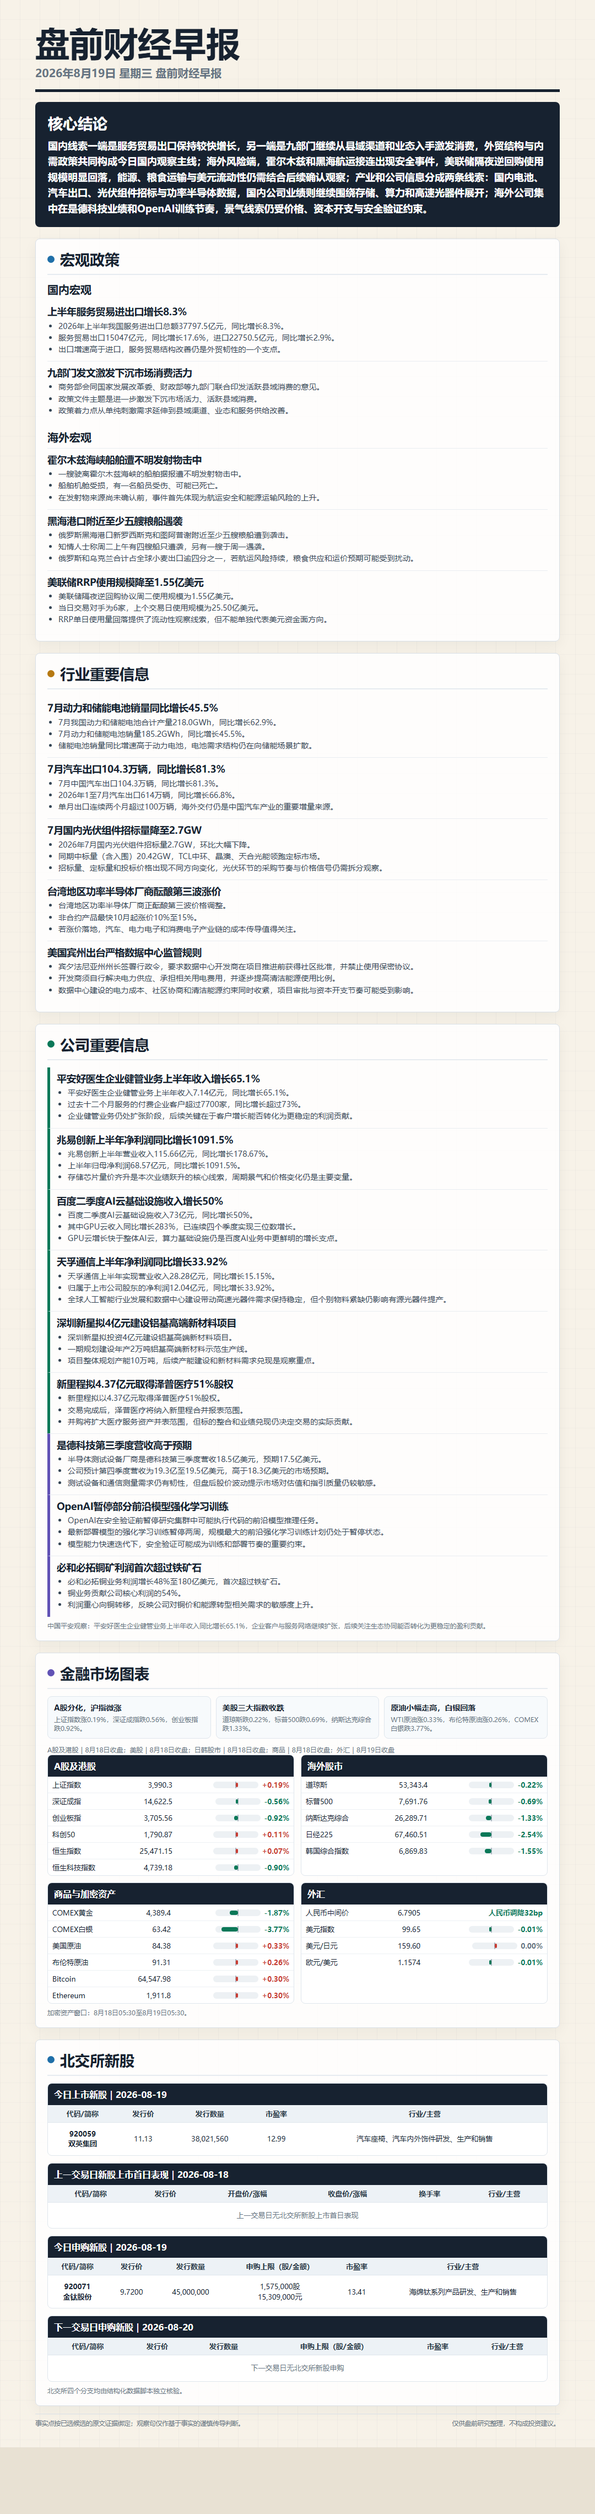
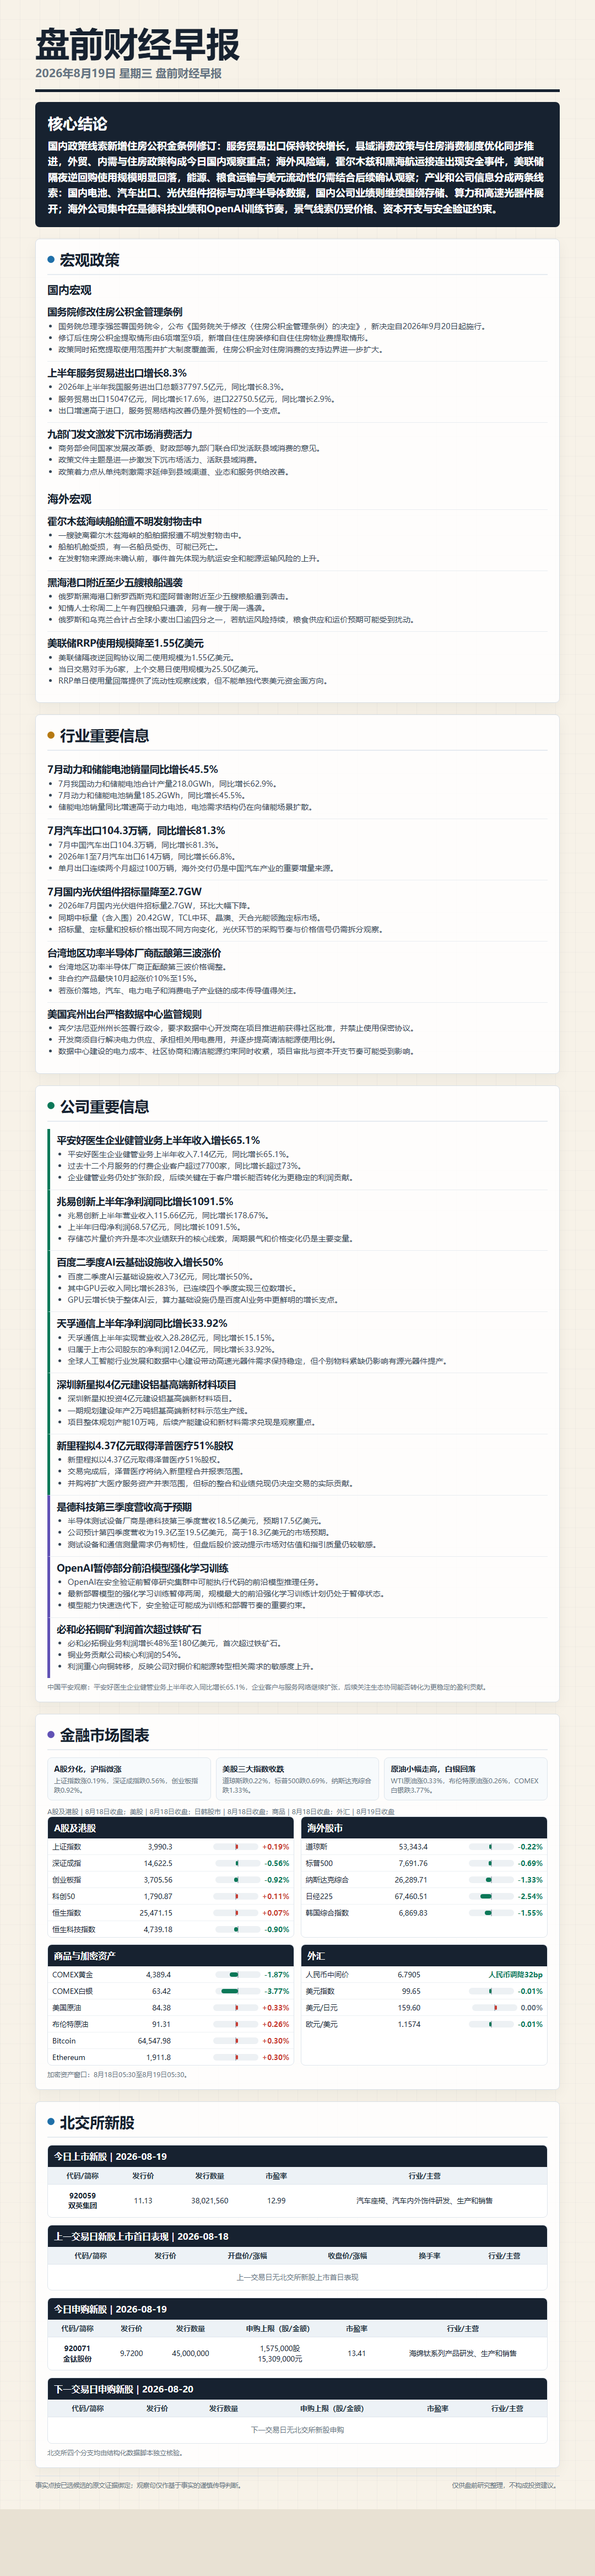
Correct 2026-08-19 morning brief

Changed region(s): [[0.0611, 0.0, 0.9472, 0.9649]]

diff --git a/2026-08-19/report.html b/2026-08-19/report.html
@@ -23,8 +23,12 @@
 </head>
 <body><main class="sheet">
   <header><h1>盘前财经早报</h1><div class="date">2026年8月19日 星期三 盘前财经早报</div></header>
-  <section class="lead"><h2>核心结论</h2><p>国内线索一端是服务贸易出口保持较快增长，另一端是九部门继续从县域渠道和业态入手激发消费，外贸结构与内需政策共同构成今日国内观察主线；海外风险端，霍尔木兹和黑海航运接连出现安全事件，美联储隔夜逆回购使用规模明显回落，能源、粮食运输与美元流动性仍需结合后续确认观察；产业和公司信息分成两条线索：国内电池、汽车出口、光伏组件招标与功率半导体数据，国内公司业绩则继续围绕存储、算力和高速光器件展开；海外公司集中在是德科技业绩和OpenAI训练节奏，景气线索仍受价格、资本开支与安全验证约束。</p></section>
+  <section class="lead"><h2>核心结论</h2><p>国内政策线索新增住房公积金条例修订：服务贸易出口保持较快增长，县域消费政策与住房消费制度优化同步推进，外贸、内需与住房政策构成今日国内观察重点；海外风险端，霍尔木兹和黑海航运接连出现安全事件，美联储隔夜逆回购使用规模明显回落，能源、粮食运输与美元流动性仍需结合后续确认观察；产业和公司信息分成两条线索：国内电池、汽车出口、光伏组件招标与功率半导体数据，国内公司业绩则继续围绕存储、算力和高速光器件展开；海外公司集中在是德科技业绩和OpenAI训练节奏，景气线索仍受价格、资本开支与安全验证约束。</p></section>
   <section class="section"><h2 class="section-title"><span class="dot"></span>宏观政策</h2><h3 class="subhead">国内宏观</h3>
+    <article class="item ">
+      <h4>国务院修改住房公积金管理条例</h4>
+      <ul><li>国务院总理李强签署国务院令，公布《国务院关于修改〈住房公积金管理条例〉的决定》，新决定自2026年9月20日起施行。</li><li>修订后住房公积金提取情形由6项增至9项，新增自住住房装修和自住住房物业费提取情形。</li><li>政策同时拓宽提取使用范围并扩大制度覆盖面，住房公积金对住房消费的支持边界进一步扩大。</li></ul>
+    </article>
     <article class="item ">
       <h4>上半年服务贸易进出口增长8.3%</h4>
       <ul><li>2026年上半年我国服务进出口总额37797.5亿元，同比增长8.3%。</li><li>服务贸易出口15047亿元，同比增长17.6%，进口22750.5亿元，同比增长2.9%。</li><li>出口增速高于进口，服务贸易结构改善仍是外贸韧性的一个支点。</li></ul>

diff --git a/2026-08-19/sources-2026-08-19.md b/2026-08-19/sources-2026-08-19.md
@@ -10,6 +10,8 @@
 - 华尔街见闻: ok, 555 candidates - https://api-one.wallstcn.com/apiv1/content/lives?channel=global-channel
 
 ## Selected article URLs
+- domesticMacro: 李强签署国务院令 公布《国务院关于修改〈住房公积金管理条例〉的决定》 - https://finance.eastmoney.com/a/202608183844594441.html
+  - supporting (cross_source_confirmation): 公积金条例迎大规模修订：装修、物业费可提取 - https://www.cls.cn/detail/2457602
 - domesticMacro: 商务部服贸司负责人介绍2026年1-6月服务贸易发展情况 - http://news.10jqka.com.cn/20260819/c679061403.shtml
 - domesticMacro: 商务部等部门：进一步激发下沉市场活力 活跃县域消费 - http://news.10jqka.com.cn/20260818/c679041286.shtml
 - overseasMacro: 又有船据报在霍尔木兹海峡被击中 - https://www.cls.cn/detail/2456892
@@ -17,17 +19,16 @@
 - overseasMacro: 财联社8月19日电，美联储隔夜逆回购协议（RRP）周二使用规模为1.55亿美元（交易对手6家），上个交易日报25.50亿美元 - https://www.cls.cn/detail/2457641
 - industry: 7月我国动力和储能电池销量185.2GWh 同比增长45.5% - https://finance.eastmoney.com/a/202608183844449476.html
 - industry: 中汽协：7月汽车出口104.3万辆 同比增长81.3% - https://finance.eastmoney.com/a/202608183844372077.html
+- industry: 集邦咨询：7月国内光伏组件招标量2.7GW 环比大幅下降 - http://field.10jqka.com.cn/20260818/c679040537.shtml
 - industry: 报道：中国台湾地区功率半导体厂商酝酿第三波涨价 - https://wallstreetcn.com/livenews/3150895
-- industry: 半导体晶圆前段测试设备厂商是德科技Keysight第三季度营收18.5亿美元 - https://finance.eastmoney.com/a/202608193844975688.html
-- industry: OpenAI：暂时放缓扩展速度 包括将对最新部署模型的强化学习训练暂停两周 - https://www.cls.cn/detail/2457647
+- industry: 美国宾州出台全美"最严格"数据中心监管规则 - https://wallstreetcn.com/livenews/3151310
 - domesticCompanies: 平安好医生2026半年成绩单：企业健管业务收入7.14亿元 同比增长65.1% - https://www.cls.cn/detail/2457232
 - domesticCompanies: 兆易创新：上半年净利润同比增长1092% 存储芯片产品量价齐升 - https://www.cls.cn/detail/2457330
 - domesticCompanies: 百度集团：二季度百度AI云基础设施收入73亿元，同比增长50% - https://wallstreetcn.com/livenews/3150992
-- domesticCompanies: 亿田智能：子公司签署10亿元算力中心建设合同 - https://www.cls.cn/detail/2457332
-  - supporting (cross_source_confirmation): 亿田智能：公司于近日收到全资子公司甘肃亿算与Z公司签署《亿田算力中心项目建设合同》，本合同标的对应合同总价款为10亿元 - https://wallstreetcn.com/livenews/3151053
+- domesticCompanies: 天孚通信：上半年净利润同比增长34% 高速光器件产品需求持续稳定增长 - https://www.cls.cn/detail/2457335
 - domesticCompanies: 深圳新星：拟4亿元投建年产2万吨铝基高端新材料项目 - https://finance.eastmoney.com/a/202608183844676790.html
 - domesticCompanies: 新里程：拟4.37亿元取得泽普医疗51%股权 - https://finance.eastmoney.com/a/202608183844676469.html
   - supporting (cross_source_confirmation): 新里程：拟以自有资金及自筹资金4.37亿元人民币通过股权转让及增资扩股形式取得山东泽普医疗科技有限公司51%的股权 - https://wallstreetcn.com/livenews/3151057
-- overseasCompanies: 现代建设获泰拉能源最多8座钠冷核电站EPC优先合作权 - http://news.10jqka.com.cn/20260818/c679040069.shtml
-- overseasCompanies: 蓝色起源、萤火虫航空航天入选NASA航天器处理服务供应商 - https://finance.eastmoney.com/a/202608183844088743.html
+- overseasCompanies: 半导体晶圆前段测试设备厂商是德科技Keysight第三季度营收18.5亿美元 - https://finance.eastmoney.com/a/202608193844975688.html
+- overseasCompanies: OpenAI：暂时放缓扩展速度 包括将对最新部署模型的强化学习训练暂停两周 - https://www.cls.cn/detail/2457647
 - overseasCompanies: 必和必拓铜矿利润首次超过铁矿石 - https://www.cls.cn/detail/2457385
